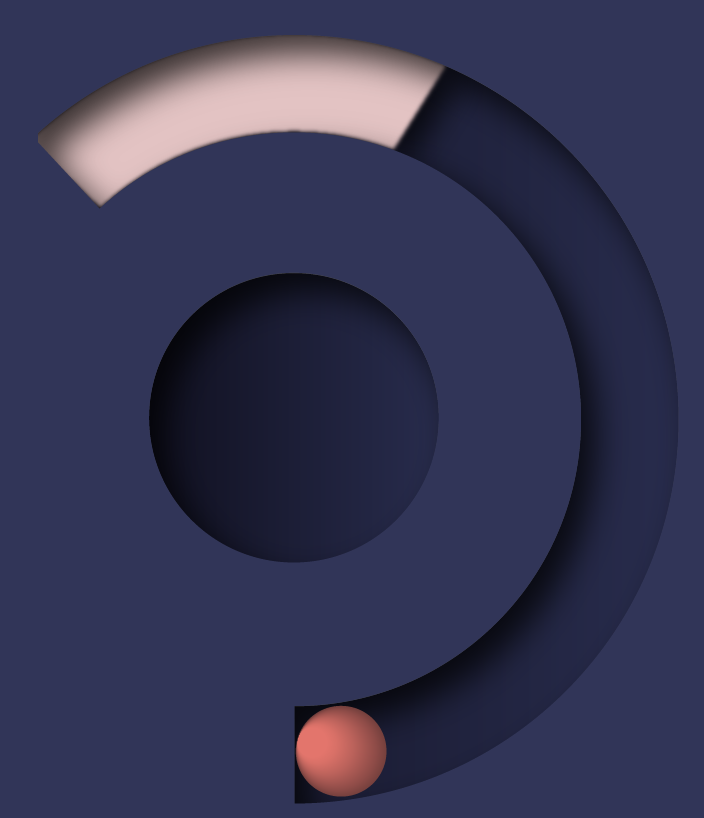
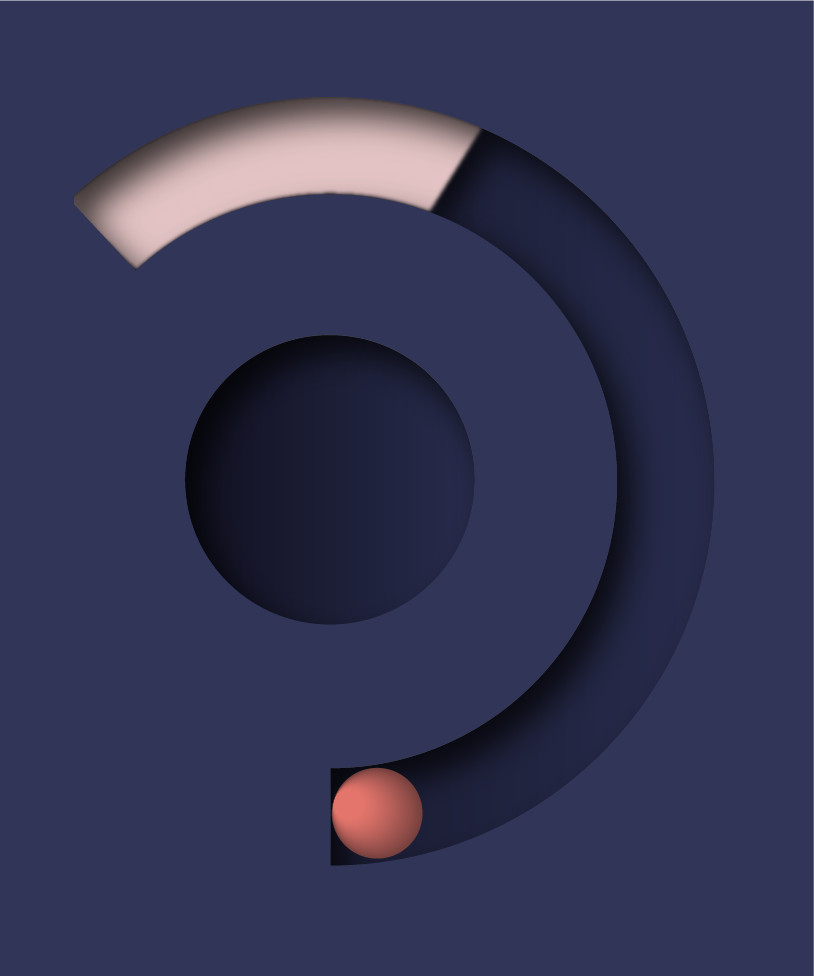
FirstCommit

Changed region(s): [[0.0312, 0.0306, 0.9688, 1.0], [0.1875, 0.3667, 0.5312, 0.7029], [0.3125, 0.3362, 0.625, 0.489]]

diff --git a/assets/styles.css b/assets/styles.css
@@ -181,16 +181,14 @@ ul{
     height: 62vh;
     position: absolute;
     top: 0;
-    right: 5.8%;
+    right: 7%;
     display: flex;
     justify-content: center;
-    /* border: 1px solid #fff; */
     z-index: 98;
 }
 .main-wrapper .container main .hang-ball-con .hang-ball{
-    width: 16%;
+    width: 15%;
     position: absolute;
-    /* position: relative; */
     bottom:0;
     transform-origin: 50% -60vh;
     z-index: 98;
@@ -198,7 +196,7 @@ ul{
 }
 .main-wrapper .container main .hang-ball-con .hang-ball:before{
     content:"";
-    width: 6px;
+    width: 5px;
     height: 60vh;
     background-color:#F37469;
     position: absolute;
@@ -304,15 +302,16 @@ ul{
         width:100%;
         height: 33vh;
         top: 0;
-        right: 4%;
+        right: 5.5%;
     }
     .main-wrapper .container main .hang-ball-con .hang-ball{
-        width: 11%;
-        transform-origin: 50% -390%;
+        width: 10%;
+        transform-origin: 50% -28vh;
         
     }
     .main-wrapper .container main .hang-ball-con .hang-ball:before{
         width: 3px;
+        height: 28vh;
     }
     .main-wrapper .container header{
         width: 100%;

diff --git a/index.html b/index.html
@@ -62,6 +62,7 @@ Created: Abdul Aziz
                             </div>
                             <div class="header-col2">
                                 <div class="header-img">
+                                    <!-- <img src="images/3DWall-1.svg" alt=""> -->
                                     <img src="images/3DWall-1.png" alt="">
                                     <div class="pollball">
                                         <img src="images/BallPoll.svg" alt="">
